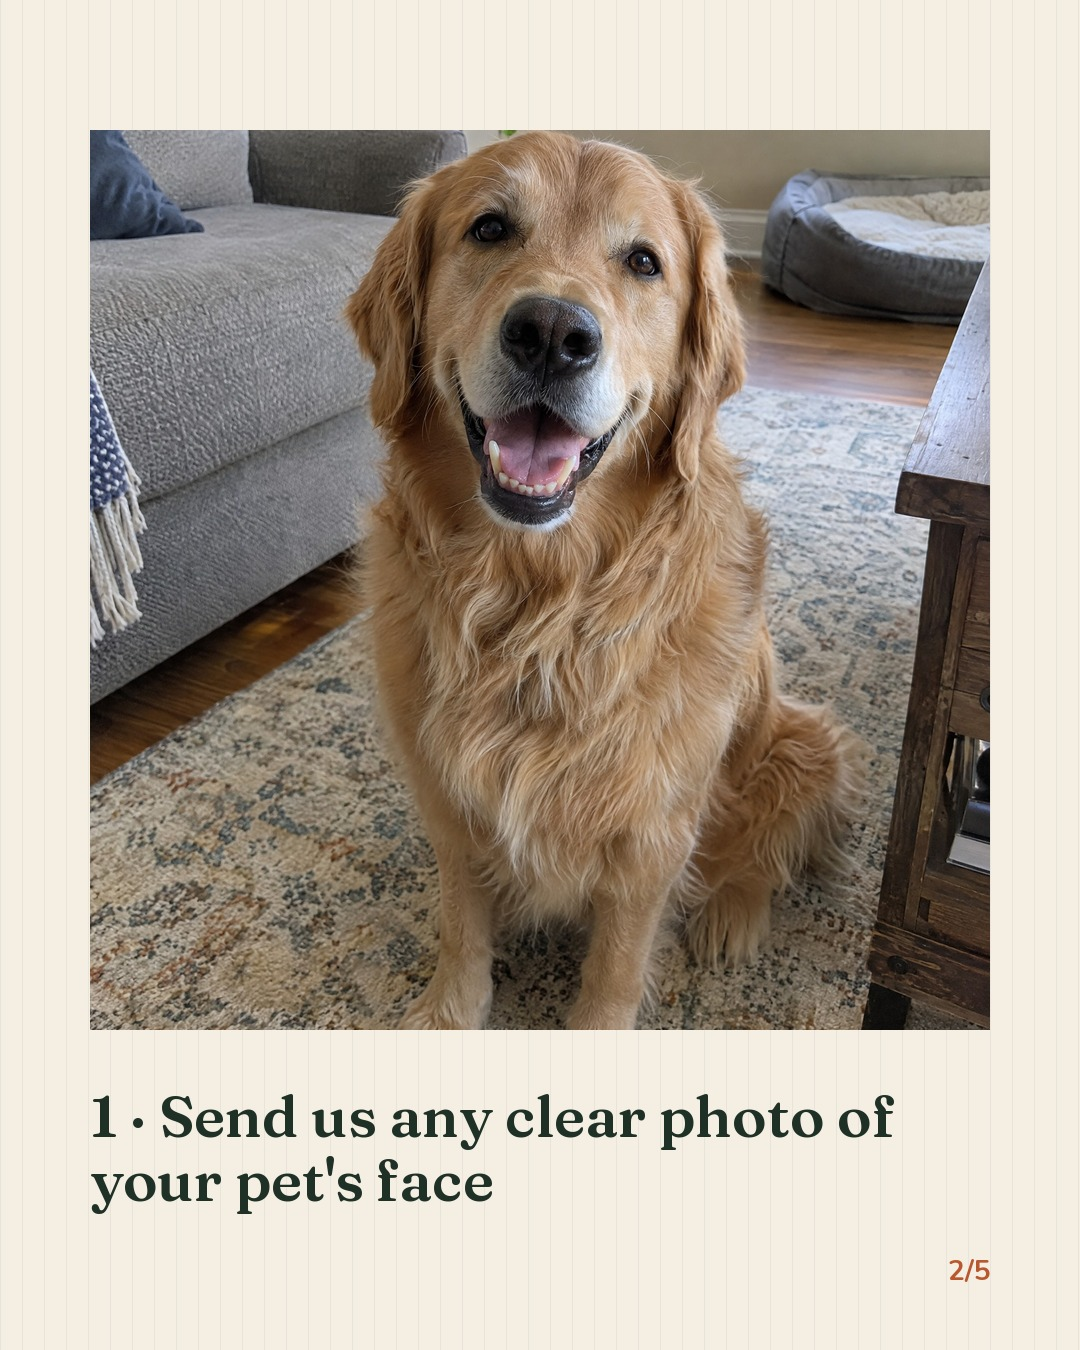
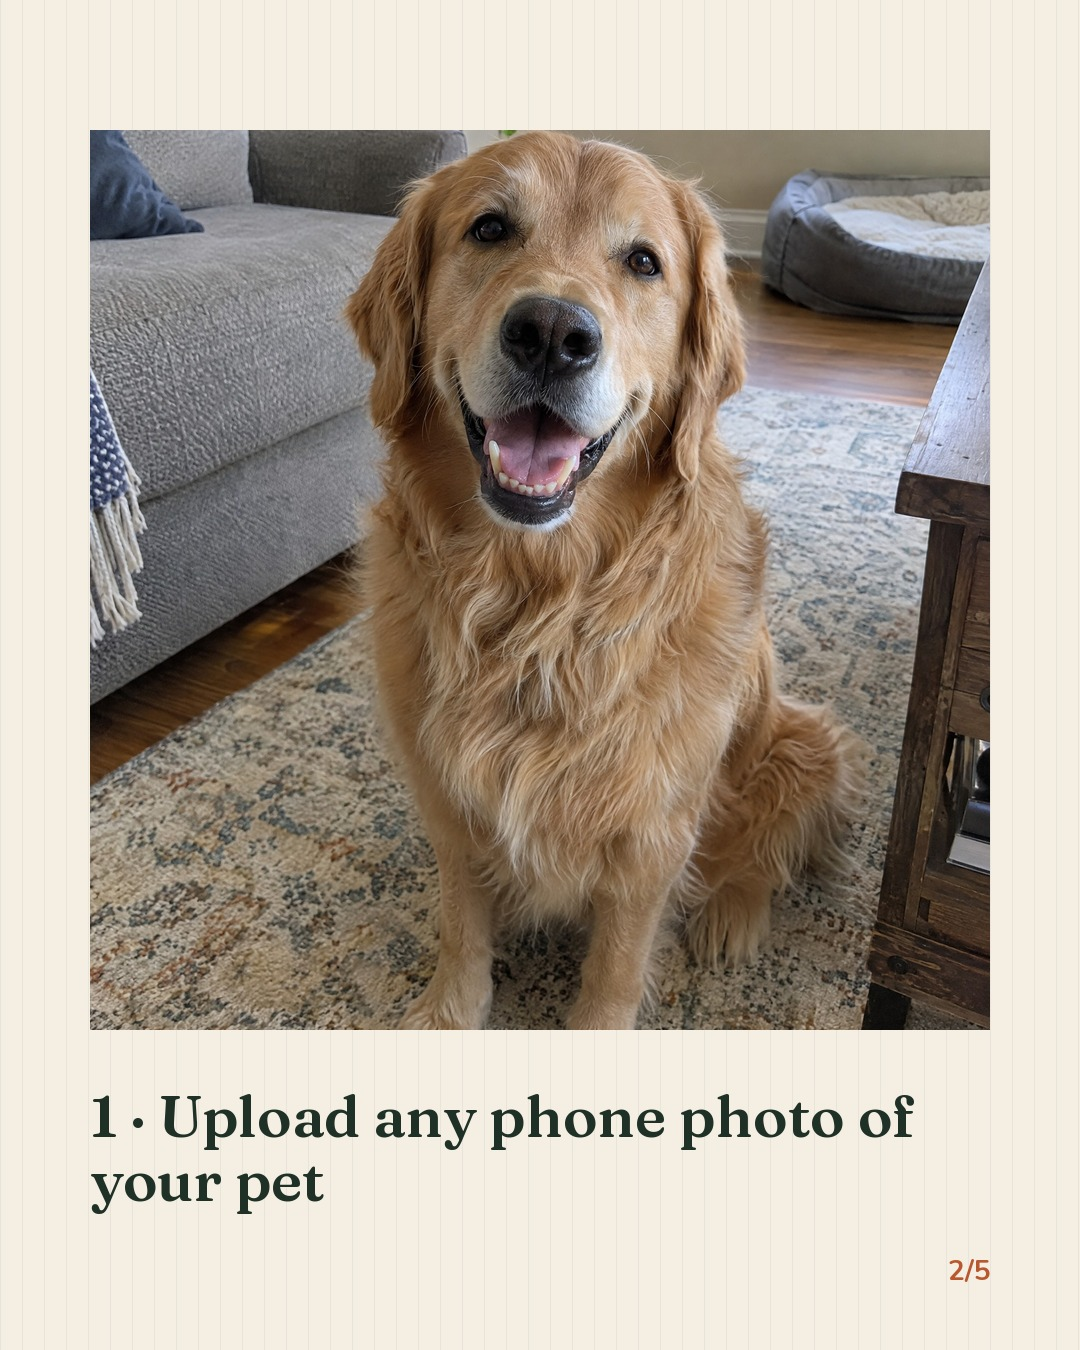
Social kit matches the new flow: how-it-works slides, captions, replies, no 'Made in the USA'
Claude-Session: https://claude.ai/code/session_01QbRAmK33mtEt63j7wSarN6

Changed region(s): [[0.1528, 0.8089, 0.8556, 0.9022]]

diff --git a/scripts/make_social.py b/scripts/make_social.py
@@ -166,9 +166,9 @@ save(slide_photo(A + "lifestyle/blanket-sofa-golden.jpg", "Your pet, woven into 
 
 # Post 2: how it works carousel
 save(slide_text("How a photo becomes a blanket", "Swipe to see the 4 steps", "How it works", n="1/5"), "post-02-how-1.jpg")
-save(slide_image_card(A + "pets/golden.jpg", "1 · Send us any clear photo of your pet's face", "2/5"), "post-02-how-2.jpg")
-save(slide_image_card(A + "blanket-art/golden-pop.jpg", "2 · We illustrate it. You approve it (2 free changes)", "3/5"), "post-02-how-3.jpg")
-save(slide_image_card(A + "lifestyle/blanket-weave-closeup.jpg", "3 · Woven into 100% cotton in the USA", "4/5"), "post-02-how-4.jpg")
+save(slide_image_card(A + "pets/golden.jpg", "1 · Upload any phone photo of your pet", "2/5"), "post-02-how-2.jpg")
+save(slide_image_card(A + "blanket-art/golden-pop.jpg", "2 · Pick a style and add their name", "3/5"), "post-02-how-3.jpg")
+save(slide_image_card(A + "lifestyle/blanket-weave-closeup.jpg", "3 · Approve your proof. We weave it in 100% cotton", "4/5"), "post-02-how-4.jpg")
 save(slide_text("4 · Delivered in about 4–7 business days", "Order by Dec 10 for Christmas. $64, free US shipping. Link in bio.", "Then", bg=INK, fg=CREAM, accent=WELD, n="5/5"), "post-02-how-5.jpg")
 
 # Post 3: pick a style carousel
@@ -179,7 +179,7 @@ for i, (s, lab) in enumerate((("pop", "1 · Bold Pop"), ("christmas", "2 · Chri
 # Post 4: woven vs printed
 save(slide_text("Woven, not printed.", "On our blankets the picture is made of colored cotton threads, not ink on top.", "What makes it different", n="1/3"), "post-04-woven-1.jpg")
 save(slide_image_card(A + "lifestyle/blanket-weave-closeup.jpg", "The loom builds the portrait thread by thread", "2/3"), "post-04-woven-2.jpg")
-save(slide_text("Why we illustrate first", "Raw photos weave muddy. Bold, simple art weaves beautifully, so we draw your pet before it goes on the loom.", "The secret", bg=INK, fg=CREAM, accent=WELD, n="3/3"), "post-04-woven-3.jpg")
+save(slide_text("Why bold art weaves best", "Raw photos weave muddy. Bold, simple shapes weave beautifully, so every design gets a bold style and a hand check before it goes on the loom.", "The secret", bg=INK, fg=CREAM, accent=WELD, n="3/3"), "post-04-woven-3.jpg")
 
 # Post 5: storybook sneak peek
 save(slide_photo(A + "lifestyle/book-table.jpg", "Your pet is the hero of the story.", "New: the storybook", "Illustration of the product"), "post-05-book-1.jpg")
@@ -193,7 +193,7 @@ save(slide_photo(A + "lifestyle/book-bed-tabby.jpg", "Your cat already thinks th
 save(slide_photo(A + "lifestyle/bundle-giftbox.jpg", "One photo. Two gifts. $99.", "Gift set", "Illustration of the product"), "post-07-gift-set.jpg")
 
 # Post 8: Christmas deadline
-save(slide_text("Order by Dec 10 for Christmas.", "Art proof in 24 hours. Made in the USA. Delivered with tracking.", "Holiday deadline", bg=MADDER, fg=CREAM, accent=WELD), "post-08-deadline.jpg")
+save(slide_text("Order by Dec 10 for Christmas.", "Art proof in 24 hours. Woven to order in the USA. Delivered with tracking.", "Holiday deadline", bg=MADDER, fg=CREAM, accent=WELD), "post-08-deadline.jpg")
 
 # Post 9: four pets grid
 grid = Image.new("RGB", (W, H), CREAM)

diff --git a/SOCIAL.md b/SOCIAL.md
@@ -14,11 +14,11 @@ All images are in `assets/social/`, videos in `assets/videos/`. Everything uses 
 | Action button | n/a | "Shop now" → woventails.com |
 
 **Bio (Instagram, 150 characters max):**
-> Your pet, illustrated from your photo 🐾
-> Woven into 100% cotton or starring in their own book
-> Made in the USA · Order by Dec 10 for Christmas ⬇
+> Your pet, woven into a cotton blanket 🐾
+> Upload a photo, design it in a minute
+> Made to order in the USA · 10% off first order ⬇
 
-**Facebook "About":** Woven Tails turns your pet's photo into an illustrated portrait, woven into a 100% cotton jacquard blanket or printed as a 24-page hardcover storybook starring them. You approve the art before anything is made. Made to order in the USA.
+**Facebook "About":** Woven Tails turns your pet's photo into a portrait woven into a 100% cotton jacquard blanket, or a 24-page hardcover storybook starring them. You design it on our site in a minute, we polish it and send a proof, and nothing is made until you approve. Woven and printed to order in the USA.
 
 ## 2. Story highlights (covers in `assets/social/highlight-*.jpg`)
 
@@ -60,32 +60,32 @@ Rules: first line is the hook (it shows before "more"); price + "link in bio" in
 
 **Post 1, intro**
 > Your pet, woven into something you can hold. 🧶
-> Send us one photo. We illustrate your dog or cat, you approve the art, and we weave it into a 100% cotton blanket, or make them the hero of their own storybook.
+> Upload one photo, pick a style, add their name. We polish it, you approve the proof, and we weave it into a 100% cotton blanket. Or make them the hero of their own storybook.
 > Made to order in the USA. Link in bio.
 > #custompetportrait #petportrait #doglovers #catlovers #petgifts #wovenblanket
 
 **Post 2, how it works (carousel)**
 > How one phone photo becomes a woven blanket 👇 (swipe)
-> 1. Send any clear photo of your pet's face
-> 2. We illustrate it. You approve it (2 free changes)
-> 3. It's woven into 100% cotton in the USA
+> 1. Upload any phone photo of your pet
+> 2. Pick a style and add their name
+> 3. Approve your proof, then we weave it in 100% cotton
 > 4. Delivered in about 4–7 business days
 > $64 · free US shipping · order by Dec 10 for Christmas. Link in bio.
 > #custompetportrait #petgifts #dogmom #catdad #giftideas
 
 **Post 3, pick a style (carousel)**
 > Same cat. Three styles. Which one would you pick? Comment 1, 2 or 3 👇
-> Bold Pop, Christmas scarf or Royal. All woven into a 100% cotton blanket from your own pet's photo. Link in bio.
+> Bold Pop, Christmas or Royal (and a gentle Memorial style too). Try your own pet in every style on our site. Link in bio.
 > #catsofinstagram #catlovers #custompetportrait #petportrait #christmasgifts
 
 **Post 4, woven vs printed (carousel)**
 > Woven, not printed. Here's the difference 🧵
-> On our blankets the picture is made of colored cotton threads, not ink on top. That's also why we illustrate your photo first: bold art weaves beautifully. Link in bio.
+> On our blankets the picture is made of colored cotton threads, not ink on top. That's why every design gets a bold style first: bold art weaves beautifully. Link in bio.
 > #wovenblanket #jacquard #petportrait #handmadegifts #doglovers
 
 **Post 5, storybook (carousel)**
 > What if your dog was the hero of a book? 📖
-> "Sunny and the Very Big Day": 24 illustrated pages, drawn from your photo, with your family's names in the story. Hardcover, printed in the USA. $42. Link in bio.
+> "Sunny and the Very Big Day": 24 illustrated pages starring your pet, with your family's names in the story. Hardcover, printed to order in the USA. $42. Link in bio.
 > #personalizedbook #doglovers #kidsbooks #petgifts #bedtimestory
 
 **Post 6, cat book**
@@ -95,12 +95,12 @@ Rules: first line is the hook (it shows before "more"); price + "link in bio" in
 
 **Post 7, gift set**
 > One photo. Two gifts. $99. 🎁
-> The woven portrait blanket + the storybook starring their pet. Approved once, shipped together. Order by Dec 10 for Christmas. Link in bio.
+> The woven portrait blanket + the storybook starring their pet, from one photo, approved once. Order by Dec 10 for Christmas. Link in bio.
 > #giftsforher #petgifts #christmasgiftideas #dogmom #giftguide
 
 **Post 8, deadline (from Dec 1)**
 > Order by Dec 10 for Christmas delivery 🎄
-> Art proof in 24 hours, made in the USA, delivered with tracking. Link in bio.
+> Art proof in 24 hours, woven to order in the USA, delivered with tracking. Link in bio.
 > #christmasgifts #lastminutegifts #petgifts #custompetportrait
 
 **Post 9, four pets**
@@ -124,10 +124,10 @@ Rules: first line is the hook (it shows before "more"); price + "link in bio" in
 | They say | You reply |
 |---|---|
 | "How much?" / "Price?" | "$64 for the woven blanket, $42 for the storybook, $99 for both. Free US shipping. Link in our bio 🐾" |
-| "Is this AI?" | "We use AI-assisted illustration, then check every portrait by hand against your photo. You approve it before anything is made." |
+| "Is this AI?" | "Our designer cuts your pet out of your photo automatically, then we check and polish every design by hand. You approve it before anything is made." |
 | "Do you ship to [country]?" | "Right now we ship to the US only. We'll announce new countries here first!" |
 | "Will it arrive by Christmas?" | "Yes if you order by Dec 10 (US standard shipping)." |
-| "Can you do two pets?" | "Not yet, one pet per piece for now. Want us to message you when two-pet blankets launch?" |
+| "Can you do two pets?" | "Yes! Up to 4 pets on one blanket. 1–2 pets are included, 3–4 add $10. Link in bio 🐾" |
 | Complaint | "So sorry about that! Please DM us your order number and a photo, and we'll make it right." (Move to DM/email, never argue in comments.) |
 
 ## 6. Pinterest
